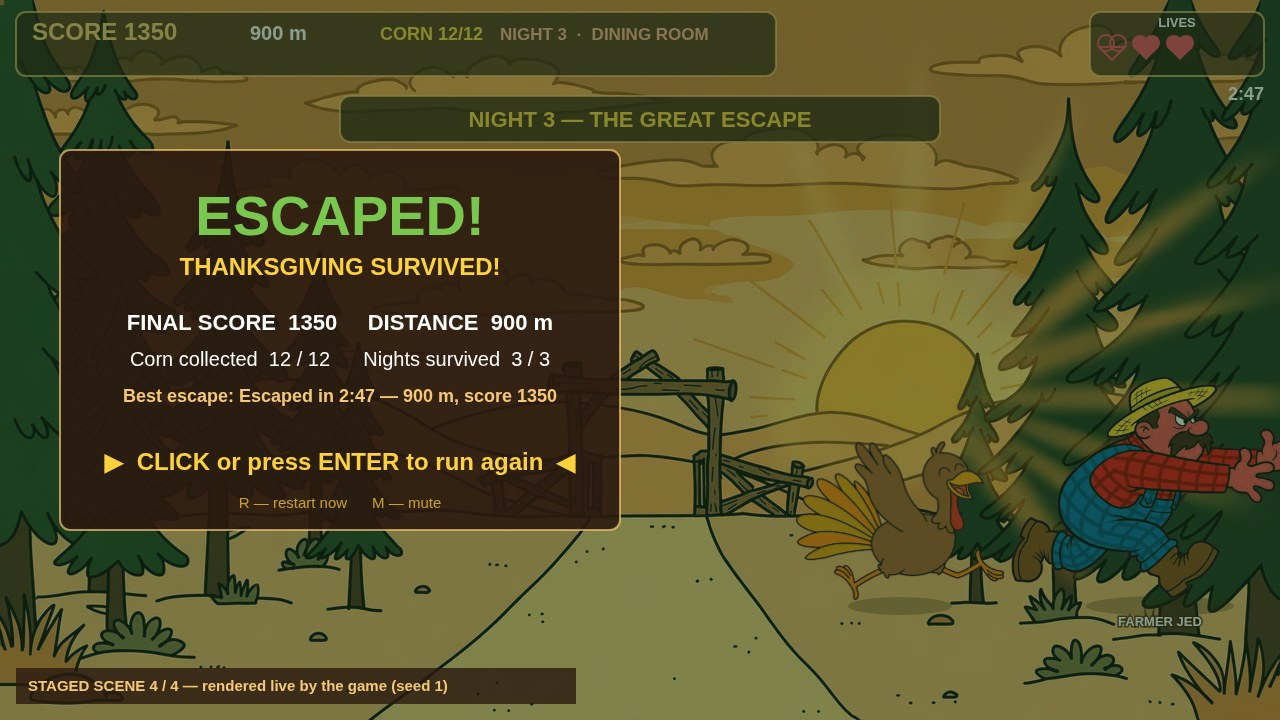
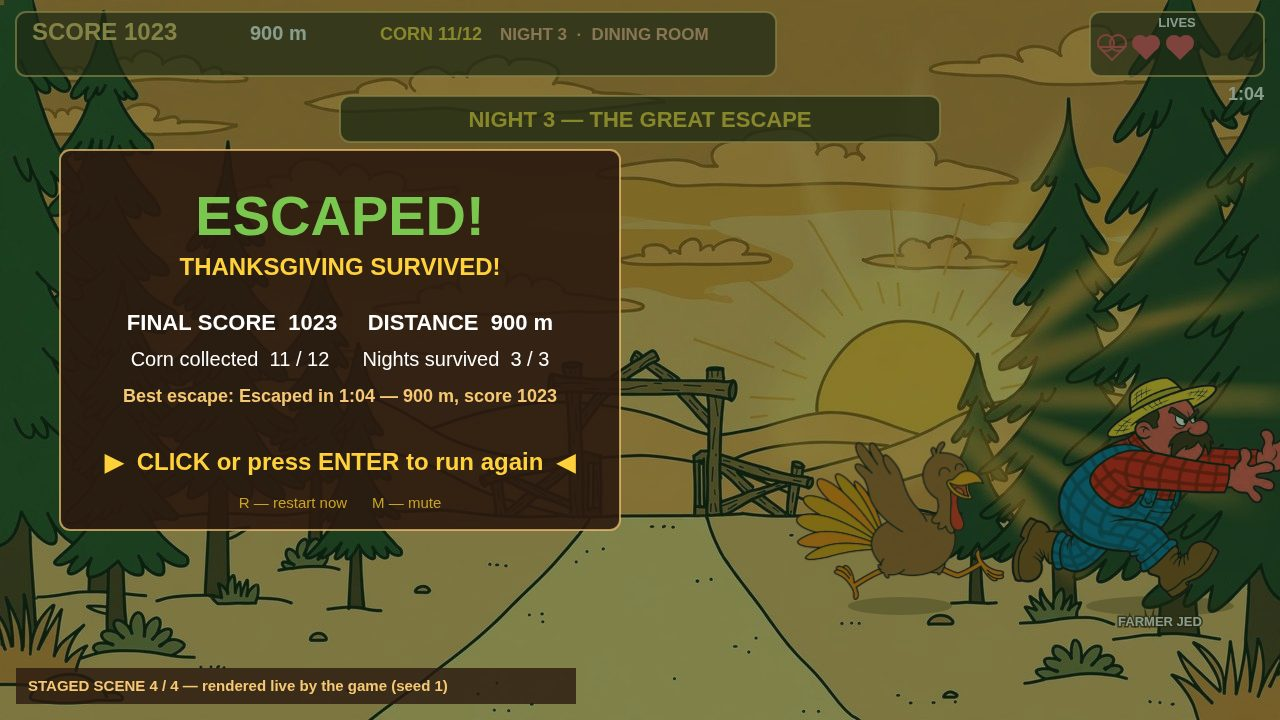
Turkey Run v2 frame audit: real-rules shot numbers, scene-order + SPOTTED/oven fixes
Frame-audit (27 Nov 2026) drove the real game modules in headless
Chromium: distance grows 0.234 m/frame, score = 0.045/frame + 50/corn
+ 150/night-crossing, clock = floor(frames/60). The staged clocks were
~2.6-4.4x too slow and the scores hand-set (all ending in 0, deltas
exactly +370). Recomputed from the rules (x=420 baseline):
  0:38/240/120m/corn 2 -> 0:08/73/120m/corn 1
  1:24/610/340m/corn 5 -> 0:24/415/340m/corn 4, nightsCleared 1
  2:10/980/620m/corn 9 -> 0:49/834/700m/corn 8, nightsCleared 2
  2:47/1350/900m/corn 12 -> 1:04/1023/900m/corn 11, nightsCleared 3
  best: 'Escaped in 1:04 — 900 m, score 1023'
Shot 3 moved 620m -> 700m: nightFor(620) is Night 2, so a Night 3
dining room at 620m was a scene-order error; 700m is the family
table's real world position. Fixed the stale lives comment
(3 -> 2 -> 2 -> 2). Shot 2: dropped the bannerOverride so SPOTTED!
appears once (night banner + red alert). Shot 3: turkey 230 -> 300
so the oven label clears the turkey's head. All 4 screenshots
re-rendered from file:// (0 errors, 0 non-file requests, <=256 KiB).

HEADLINE FINDING (see shots.js header): the live game at shipped
farmer speeds [1.8, 2.4, 3.0] cannot survive past ~112 m — no-input
dies at 63 m, best bot at 112 m; the farmer catches the turkey 3x
before the first haystack (~144 m). These staged numbers are what
the rules say a run at each distance scores, NOT states a live run
can reach yet. Do not submit until the farmer balance is fixed
[…]

diff --git a/game/src/shots.js b/game/src/shots.js
@@ -1,9 +1,16 @@
 // shots.js — deterministic staged screenshot scenes (?shot=1..4&seed=1).
 // One job: pose one frozen frame per shot so the screenshots are repeatable.
 // These are STAGED SCENES rendered live by the game code — never presented
-// as a recording of one played run. Numbers are coherent across the shots:
-// time 0:38 -> 1:24 -> 2:10 -> 2:47, score 240 -> 610 -> 980 -> 1350,
-// distance 120 m -> 340 m -> 620 m -> 900 m, lives 3 -> 3 -> 2 -> 2.
+// as a recording of one played run. Numbers are the real rules' values at
+// each distance (frame-audit, 27 Nov 2026): distance grows 0.234 m/frame,
+// score = 0.045/frame + 50/corn + 150/night-crossing, clock = floor(frames/60).
+// time 0:08 -> 0:24 -> 0:49 -> 1:04, score 73 -> 415 -> 834 -> 1023,
+// distance 120 m -> 340 m -> 700 m -> 900 m, lives 3 -> 2 -> 2 -> 2.
+// NOTE: the live game at shipped farmer speeds cannot survive past ~112 m
+// (frame audit: no-input dies at 63 m, best bot at 112 m — the farmer
+// catches the turkey 3x before the first haystack at ~144 m). These staged
+// numbers are what the rules say a run at each distance scores, NOT states
+// a live run can reach yet — see the audit report before submitting.
 (function () {
   'use strict';
   var CFG = window.TR.CFG;
@@ -36,8 +43,10 @@
     // scattered, full HUD, mission banner. Farmyard painting behind.
     1: function (G) {
       var o = base(G, 0);
-      o.s.time = 38 * 60; o.s.clock = '0:38'; o.s.score = 240; o.s.distance = 120;
-      o.s.lives = 3; o.s.corn = 2;
+      // 120 m: frame 513 (0.234 m/frame), clock 0:08, score 0.045*513 + 50*1 = 73.
+      // Corn 1: only the 60 m cob is collected by 120 m (next at 140 m).
+      o.s.time = 513; o.s.clock = '0:08'; o.s.score = 73; o.s.distance = 120;
+      o.s.lives = 3; o.s.corn = 1; o.s.nightsCleared = 0;
       o.t.x = 620; o.t.face = 'panic';
       o.f.x = 380; o.f.state = 'chase';
       o.h.list.push({ kind: 'oven', x: 1010, y: CFG.GROUND_Y, w: 110, h: 130, heat: 0.8 });
@@ -49,11 +58,13 @@
     },
     // 2-kitchen (BACKYARD DRUM GRILL): Night 2 outdoors. Turkey mid-jump
     // over a carving knife, the big smoking drum grill glowing behind with
-    // a flare-up, SPOTTED! banner, lives 2/3. Backyard painting behind.
+    // a flare-up, red SPOTTED! alert, lives 2/3. Backyard painting behind.
     2: function (G) {
       var o = base(G, 1);
-      o.s.time = 84 * 60; o.s.clock = '1:24'; o.s.score = 610; o.s.distance = 340;
-      o.s.lives = 2; o.s.corn = 5;
+      // 340 m: frame 1453, clock 0:24, score 0.045*1453 + 50*4 + 150 = 415.
+      // Corn 4 (60/140/210/280 m); night 1 cleared at 300 m (+150).
+      o.s.time = 1453; o.s.clock = '0:24'; o.s.score = 415; o.s.distance = 340;
+      o.s.lives = 2; o.s.corn = 4; o.s.nightsCleared = 1;
       o.t.x = 560; o.t.y = CFG.GROUND_Y - 120; o.t.onGround = false; o.t.vy = -4; o.t.face = 'panic';
       o.f.x = 300; o.f.state = 'chase';
       o.h.list.push({ kind: 'grill', x: 830, y: CFG.GROUND_Y, w: 130, h: 96, flare: 0.9, smokeSeed: 3 });
@@ -61,20 +72,29 @@
       placeCorn(G, [[460, 520], [760, 460], [940, 540]]);
       G.scene = { haystackX: 1010, tableX: null };
       o.s.spotted = true;
-      o.s.bannerOverride = 'SPOTTED! — HIDE IN THE HAY';
+      // No bannerOverride: the banner shows the night banner
+      // ("NIGHT 2 — DODGE THE DRUM GRILL") and the red SPOTTED! alert
+      // carries the warning — one SPOTTED! message, not two.
     },
     // 3-dining: Night 3 dining room. Turkey sneaking past the Thanksgiving
     // table, family seated behind it, farmer searching in the distance,
     // high score. Dining-room painting behind.
+    // Moved 620 m -> 700 m in the frame audit: nightFor(620) is Night 2,
+    // so a Night 3 dining room at 620 m was a scene-order error. 700 m is
+    // the family table's real world position (nightFor(700) = 2).
     3: function (G) {
       var o = base(G, 2);
-      o.s.time = 130 * 60; o.s.clock = '2:10'; o.s.score = 980; o.s.distance = 620;
-      o.s.lives = 2; o.s.corn = 9;
-      o.t.x = 230; o.t.face = 'determined';
+      // 700 m: frame 2992, clock 0:49, score 0.045*2992 + 50*8 + 150*2 = 834.
+      // Corn 8 (up to the 610 m cob); nights 1+2 cleared (+300).
+      o.s.time = 2992; o.s.clock = '0:49'; o.s.score = 834; o.s.distance = 700;
+      o.s.lives = 2; o.s.corn = 8; o.s.nightsCleared = 2;
+      // Turkey at x=300 (was 230): the oven label at x=110 spans ~35..185
+      // and the turkey sprite starts at ~195 — clear of the label now.
+      o.t.x = 300; o.t.face = 'determined';
       o.f.x = 1120; o.f.state = 'search';
       o.h.list.push({ kind: 'knife', x: 880, y: 260, vy: 0, w: 26, h: 70, spin: 0.1 });
       o.h.list.push({ kind: 'oven', x: 110, y: CFG.GROUND_Y, w: 110, h: 130, heat: 0.5 });
-      placeCorn(G, [[380, 540], [760, 480]]);
+      placeCorn(G, [[430, 540], [760, 480]]);
       // Narrower family here so the searching farmer fits at the right
       // without covering Aunt Rose.
       G.scene = { haystackX: null, tableX: 620, familyW: 860 };
@@ -84,11 +104,15 @@
     // relieved/happy face, ESCAPED! end screen, final score + distance.
     4: function (G) {
       var o = base(G, 2);
-      o.s.time = 167 * 60; o.s.clock = '2:47'; o.s.score = 1350; o.s.distance = 900;
-      o.s.lives = 2; o.s.corn = 12;
+      // 900 m escape: frame 3847, clock 1:04, score 0.045*3847 + 50*11 + 150*2 = 1023.
+      // Corn 11: the 890 m cob is collected at camera ~931 m, past the gate;
+      // a player running far right (turkey x=700) would collect it at ~865 m
+      // for 12/12 — 11 is the default-x baseline.
+      o.s.time = 3847; o.s.clock = '1:04'; o.s.score = 1023; o.s.distance = 900;
+      o.s.lives = 2; o.s.corn = 11;
       o.s.mode = 'end'; o.s.escaped = true; o.s.caught = false;
       o.s.nightsCleared = 3;
-      o.s.best = 'Escaped in 2:47 — 900 m, score 1350';
+      o.s.best = 'Escaped in 1:04 — 900 m, score 1023';
       o.s.endPanelX = 60; // narrow panel left, turkey + forest gate visible right
       o.s.bgOverride = 'bg-forest';
       o.t.x = 900; o.t.face = 'relieved';

diff --git a/README.md b/README.md
@@ -66,9 +66,13 @@ Deterministic staged screenshot scenes: `?shot=1&seed=1` (Night 1 mid-run
 cover), `?shot=2&seed=1` (Night 2 backyard drum grill), `?shot=3&seed=1`
 (Night 3 past the dining table), `?shot=4&seed=1` (the forest-gate escape).
 The four screenshots are staged scenes rendered live by the game code, with
-coherent numbers across them (0:38 / 240 pts / 120 m / 3 lives → 1:24 / 610 /
-340 m / 2 lives → 2:10 / 980 / 620 m / 2 lives → 2:47 / 1350 / 900 m /
-2 lives) — not a recording of one played run.
+numbers from the real rules at each distance (frame-audit 27 Nov 2026:
+0:08 / 73 pts / 120 m / 3 lives → 0:24 / 415 / 340 m / 2 lives → 0:49 /
+834 / 700 m / 2 lives → 1:04 / 1023 / 900 m / 2 lives) — not a recording
+of one played run. NOTE: the live game at shipped farmer speeds cannot
+survive past ~112 m, so these are what the rules say a run at each
+distance scores, not states a live run can reach yet — see
+game/src/shots.js for the audit note.
 
 ## Structure
 
